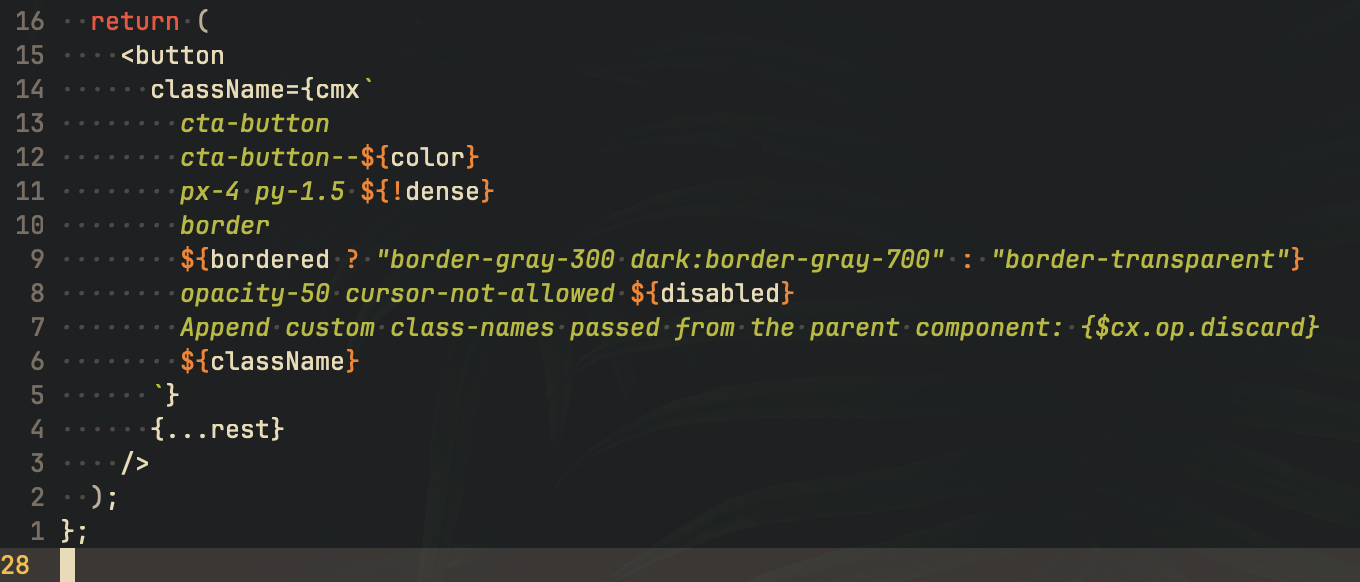
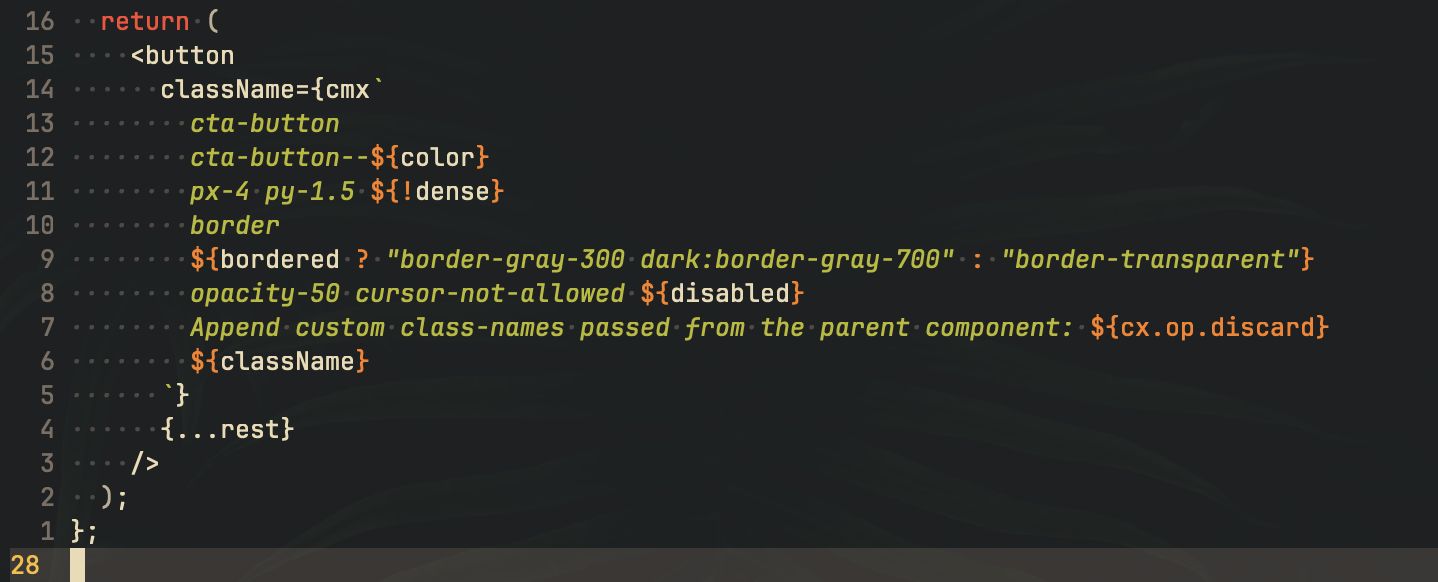
chore: fix wrong interpolation in README.md

diff --git a/README.md b/README.md
@@ -399,7 +399,7 @@ JavaScript:
           border
           ${bordered ? "border-gray-300 dark:border-gray-700" : "border-transparent"}
           opacity-50 cursor-not-allowed ${disabled}
-          Append custom class-names passed from the parent component: {$cx.op.discard}
+          Append custom class-names passed from the parent component: ${cx.op.discard}
           ${className}
         `}
         {...rest}
